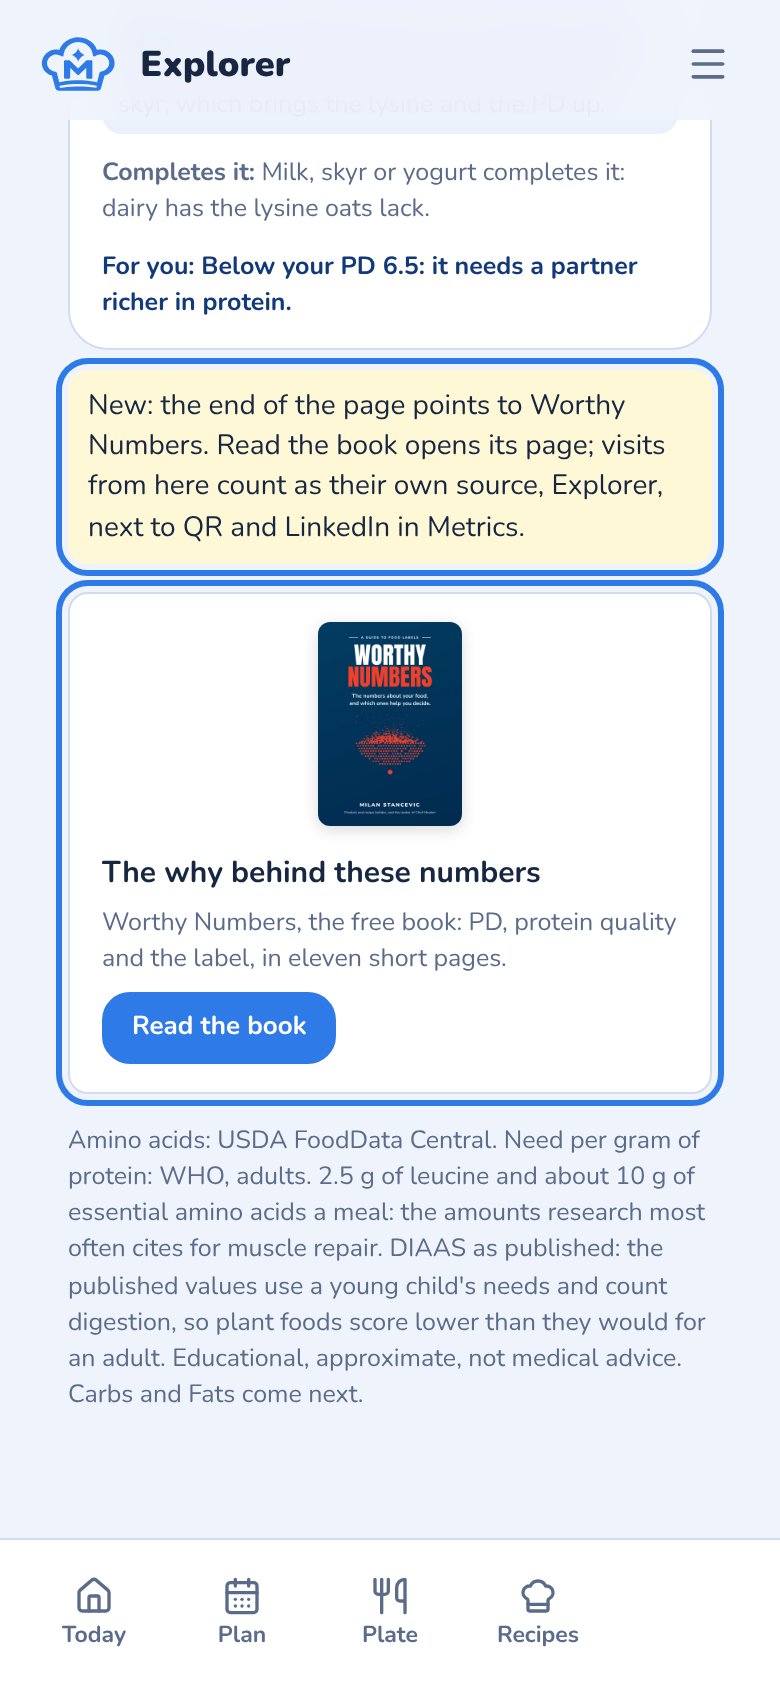
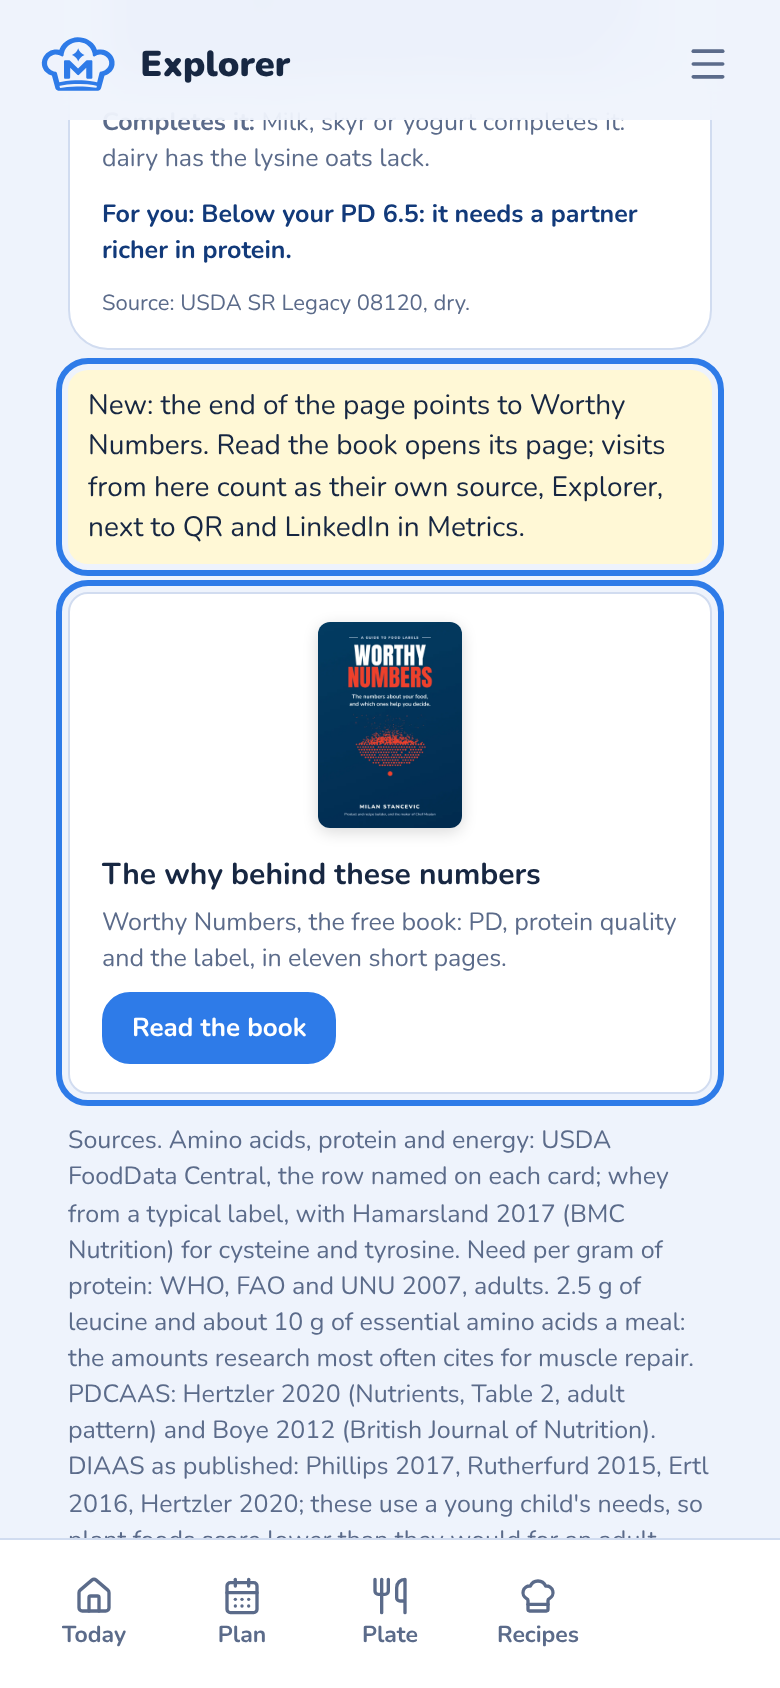
Board DT151 version 5: the amino acids as the family, PDCAAS and DIAAS with sources, the source on every card
Claude-Session: https://claude.ai/code/session_01BtJPGKTfK5KfbXuNDmfhQP

diff --git a/design/boards/genDT151.py b/design/boards/genDT151.py
@@ -86,22 +86,26 @@ W = SX + 3 * (SW + GAP) - GAP + 70
 B = Board(); y = 30
 cy = storyCard(B, y, "DT151", "Explorer: not all proteins are equal (the MVP for the pitch, version 4: one portion against one meal)", [
   ("Coach Milan, 29 October 09:41 to 10:10", "The Explorer becomes part of Chef Mealan, built from scratch, the design as design only; a link in the Menu below Foods, to show new beta testers. Add the whole spectrum of essential amino acids and their levels, and when and how to use each food best. Check the data: everything was almost 200 %. Maybe grams are better."),
+  ("Coach Milan, 11:27 and 11:28", "Where are the other metrics? And the family: protein is the surname, but the first names are the amino acids, not whey or chicken. The same for fats: saturated, monounsaturated. Add the source, where the data were taken from."),
   ("Coach Milan, 11:23", "The nine as a 3 by 3 matrix is not the best design. One below another, or rising bars, so we see the levels. Numbers are also OK."),
   ("Coach Milan, 10:55 and 11:02", "Against my day it is wrong: one scoop of whey looks like almost the whole day. Against one meal: the projected meal portion, and every food against that, to show how one food can close the meal. No one eats the same food across the day. Use the page to promote Worthy Numbers, and bring back what people know: one or two other metrics, DIAAS."),
   ("What was wrong in version 3", "The day's need was WHO's minimum, set at 0.66 g of protein per kg for an inactive adult. Your target is about twice that, so one scoop looked like most of a day."),
   ("Now, checked in 0.2.131", "No Explorer. What makes one protein food different from another lives only in Chef Mealan's lines on a plate and in PD."),
-  ("The story", "Menu: Explorer, below Foods. One page, Not all proteins are equal, eight protein foods. At the top, the meal: Breakfast, Lunch, Dinner, Snack, the next meal picked; its protein from your own day (for 120 g a day and three meals, a lunch is about 40 g; a snack half a meal). Each card: PD in the app's colours, per 100 g, DIAAS as published; one normal portion; three bars: Closes N % of your lunch's protein (27 of 40 g for a scoop of whey); Leucine against the 2.5 g a meal needs for muscle repair; Essential amino acids against about 10 g a meal. Green when the portion alone covers it. Then the nine in grams, one below another, each a bar on the same scale for every food (0 to 3.5 g), so the levels compare across cards; when one only just covers the need per gram, it is marked amber, its lowest (lentils: methionine and cysteine; oats: lysine), and that is what a partner tops up. Then Best use, what completes it, and one line against your PD target. Two chips sort: By PD, Most of the meal. At the end: The why behind these numbers, Worthy Numbers, the free book, with Read the book; visits from here count as their own source, Explorer, in Metrics. One line names the sources and says what DIAAS as published means."),
+  ("The story", "Menu: Explorer, below Foods. One page, Not all proteins are equal: protein is the surname, its first names are the amino acids (leucine, lysine, methionine and six more the body can't make), and each food brings the family in its own mix. Eight protein foods. At the top, the meal: Breakfast, Lunch, Dinner, Snack, the next meal picked; its protein from your own day (for 120 g a day and three meals, a lunch is about 40 g; a snack half a meal). Each card: PD in the app's colours, per 100 g; one normal portion; three bars: Closes N % of your lunch's protein (27 of 40 g for a scoop of whey); Leucine against the 2.5 g a meal needs for muscle repair; Essential amino acids against about 10 g a meal. Green when the portion alone covers it. Then The family in this portion: the nine in grams, one below another, each a bar on the same scale for every food (0 to 3.5 g), so the levels compare across cards; when one only just covers the need per gram, it is marked amber, its lowest (lentils: methionine and cysteine; oats: lysine), and that is what a partner tops up. Then Quality, the two scores people know, each with one line and its source: PDCAAS, the older score on many labels, stops at 1.00 (adult pattern where published); DIAAS, the newer one, digestion counted, as published. Salmon has neither in our sources yet, and the card says so. Then Best use, what completes it, one line against your PD target, and Source: the food table row the numbers come from. Two chips sort: By PD, Most of the meal. At the end: The why behind these numbers, Worthy Numbers, the free book, with Read the book; visits from here count as their own source, Explorer, in Metrics. One line names the sources and says what DIAAS as published means."),
   ("Not in it", "3D molecules, the other families, links from the Plate and Foods, the design's Coach, Goal or profiles. A public version for people not signed in."),
-  ("The numbers, checked", "Amino acids per 100 g from USDA FoodData Central, cysteine and tyrosine added; fixed against the design's data.js: soybeans 18.2 g protein, not 16.6; oats lysine 0.64 g, not 0.53; chicken and Greek yogurt to the USDA rows. Whey has no USDA amino acid row: a published whey analysis, a brand's label in the build. Need per gram of protein: WHO, FAO and UNU 2007, adults; for an adult all eight cover it. 2.5 g of leucine and about 10 g of essential amino acids a meal: the amounts research most often cites for muscle repair. DIAAS as published uses a young child's needs and counts digestion, so plant foods score lower than they would for an adult; the page says so."),
+  ("The numbers, checked", "Amino acids per 100 g from USDA FoodData Central, cysteine and tyrosine added; fixed against the design's data.js: soybeans 18.2 g protein, not 16.6; oats lysine 0.64 g, not 0.53; chicken and Greek yogurt to the USDA rows. Whey has no USDA amino acid row: a published whey analysis, a brand's label in the build. Need per gram of protein: WHO, FAO and UNU 2007, adults; for an adult all eight cover it. 2.5 g of leucine and about 10 g of essential amino acids a meal: the amounts research most often cites for muscle repair. PDCAAS: Hertzler 2020 (Nutrients 12:3704, Table 2, adult pattern: whey, milk, soy 1.00, lentils 0.80, oats 0.62) and Boye 2012 (egg 1.00, chicken 0.95). DIAAS as published: Phillips 2017 (whey isolate 1.09, chicken 1.08, whole milk 1.14, egg 1.13), Ertl 2016 (soybeans 1.00), Rutherfurd 2015 (oats 0.54), Hertzler 2020 (lentils 0.75); these use a young child's needs, so plant foods score lower than for an adult; the page says so. Boye, Phillips, Rutherfurd and Ertl were read through a summary table; in the build each figure is checked against the paper itself. The page footer names every source."),
 ])
 h = rowEnd(cy,
   B.screen("DT151a", 0, y, "Now: no Explorer", "r151a", "now", "Me, Foods, Share, Support, About."),
   B.screen("DT151b", 1, y, "New: Explorer below Foods", "r151b", "changed", "Not all proteins are equal."))
 y = h
 h = rowEnd(y + 10,
-  B.screen("DT151c", 0, y, "New: your lunch, by PD", "r151c", "changed", "Whey closes 68 % of a 40 g lunch; leucine and the nine against a meal."),
-  B.screen("DT151d", 1, y, "New: Most of the meal", "r151d", "changed", "Chicken 84 %, whey 68 %, two eggs 31 %."),
-  B.screen("DT151e", 2, y, "New: Worthy Numbers at the end", "r151e", "changed", "Read the book; visits count as Explorer."))
+  B.screen("DT151c", 0, y, "New: your lunch, by PD", "r151c", "changed", "Whey closes 68 % of a 40 g lunch; the family in grams; PDCAAS and DIAAS with sources."),
+  B.screen("DT151d", 1, y, "New: Most of the meal", "r151d", "changed", "Chicken 84 %, salmon 77 %, then soybeans and whey."),
+  B.screen("DT151f", 2, y, "New: the plant cards", "r151f", "changed", "Salmon: no score in our sources yet. Lentils and oats: its lowest."))
+y = h
+h = rowEnd(y + 10,
+  B.screen("DT151e", 0, y, "New: Worthy Numbers and the sources", "r151e", "changed", "Read the book; visits count as Explorer. Every source named."))
 y = h
 board("Stories103.dc.html", "DT151. Explorer: not all proteins are equal",
   "29 October 2026 (Coach Milan, the Explorer MVP for the pitch), version 4. Now: 0.2.131, untouched. Drawn for your approval; nothing built.",
